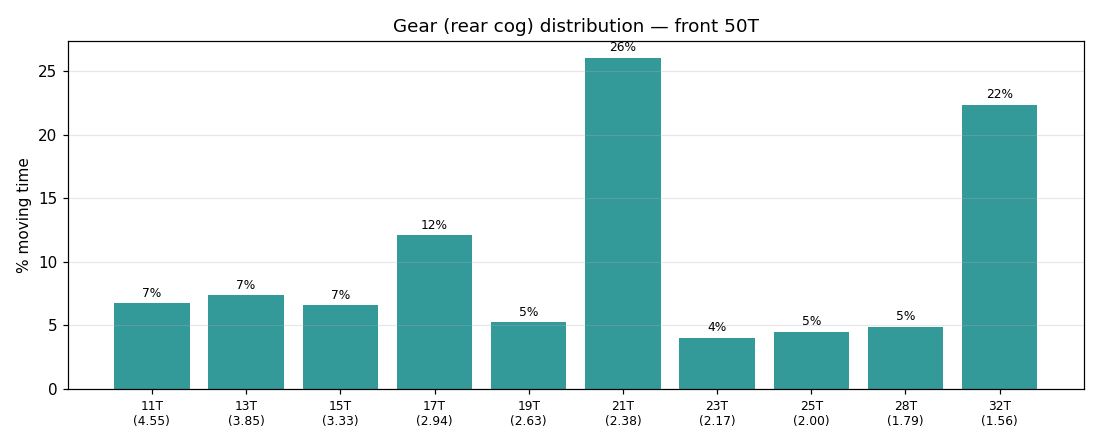
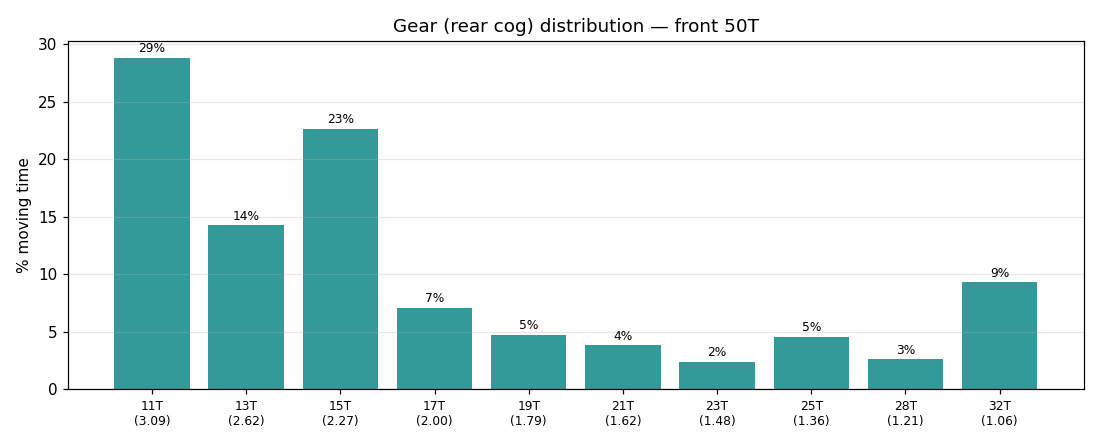
Add report: 20260426_1732_18271078752

diff --git a/rides/20260426_1732_18271078752/index.md b/rides/20260426_1732_18271078752/index.md
@@ -9,7 +9,7 @@ title: Out of hibernation
 
 > Endurance ride — 32.4 km, 357 m gain (rolling). Solid aerobic effort: hrTSS 113. Grinding tendency — 70% time below 70 rpm. Aerobic durability sound (decoupling -10.7%). 2 climb(s); biggest: 1158m @ 7.4% (cat 4, VAM 312).
 
-Longer than recent average (16.8 km).
+Longer than recent average (20.6 km). Slower pace than recent (-3.6 km/h).
 
 ## Summary
 
@@ -50,7 +50,7 @@ Longer than recent average (16.8 km).
 
 ![cadence × grade](cad_grade.png)
 
-## Gear selection
+## Gear selection (front: **34T**)
 
 ![gear distribution](gear_dist.png)
 
@@ -60,32 +60,32 @@ Longer than recent average (16.8 km).
 
 | Cog | Ratio | Time(s) | % moving |
 |---|---|---|---|
-| 11T | 4.55 | 344 | 6.7% |
-| 13T | 3.85 | 378 | 7.4% |
-| 15T | 3.33 | 336 | 6.6% |
-| 17T | 2.94 | 618 | 12.1% |
-| 19T | 2.63 | 269 | 5.3% |
-| 21T | 2.38 | 1331 | 26.1% |
-| 23T | 2.17 | 206 | 4.0% |
-| 25T | 2.00 | 231 | 4.5% |
-| 28T | 1.79 | 250 | 4.9% |
-| 32T | 1.56 | 1142 | 22.4% |
+| 11T | 3.09 | 1471 | 28.8% |
+| 13T | 2.62 | 727 | 14.2% |
+| 15T | 2.27 | 1156 | 22.6% |
+| 17T | 2.00 | 359 | 7.0% |
+| 19T | 1.79 | 242 | 4.7% |
+| 21T | 1.62 | 194 | 3.8% |
+| 23T | 1.48 | 119 | 2.3% |
+| 25T | 1.36 | 232 | 4.5% |
+| 28T | 1.21 | 132 | 2.6% |
+| 32T | 1.06 | 473 | 9.3% |
 
 ### Gear by grade bucket
 
 | Grade bucket | Time (s) | Avg cog | Modal cog |
 |---|---|---|---|
-| downhill (<-3%) | 160 | 13.4T | 11T (49%) |
-| false flat down | 814 | 15.0T | 13T (29%) |
-| flat | 1575 | 19.5T | 21T (31%) |
-| false flat up | 1251 | 22.5T | 21T (53%) |
-| rolling climb | 691 | 27.3T | 32T (47%) |
-| steep climb (>6%) | 614 | 31.5T | 32T (93%) |
+| downhill (<-3%) | 160 | 11.3T | 11T (89%) |
+| false flat down | 814 | 11.7T | 11T (79%) |
+| flat | 1575 | 14.0T | 11T (34%) |
+| false flat up | 1251 | 15.7T | 15T (45%) |
+| rolling climb | 691 | 20.6T | 15T (21%) |
+| steep climb (>6%) | 614 | 29.2T | 32T (66%) |
 
 ### Interpretation
-- Significant climbing-cog use (32% in 25T+).
-- Most-used cog: 21T (26% of moving time).
-- On rolling climbs (3-6%): mostly 32T.
+- Fast riding (43% in 11–13T) — descents or paceline.
+- Most-used cog: 11T (29% of moving time).
+- On rolling climbs (3-6%): mostly 15T.
 
 ## HR zones
 
@@ -98,8 +98,8 @@ LTHR assumed: **170 bpm** (configurable in `secrets/profile.json`).
 | Length | Avg grade | Gain | Duration | VAM | Cat | Avg HR | Avg cad | Modal cog |
 |---|---|---|---|---|---|---|---|---|
 | 1.16 km | 7.4% | 85 m | 0:16:24 | 312 | cat 4 | 169 | 53 | 32T |
-| 0.76 km | 5.1% | 39 m | 0:04:03 | 575 | cat uncat | 175 | 65 | 32T |
+| 0.76 km | 5.1% | 39 m | 0:04:03 | 575 | cat uncat | 175 | 65 | 21T |
 
 ---
 
-_Generated by bike-report. Bike: 2020 Allez Sport, 50T × 11-32T._
+_Generated by bike-report. Bike: 2020 Allez Sport, **34T** × 11-32T (override via `#34T` or `#50T` in Strava description)._
